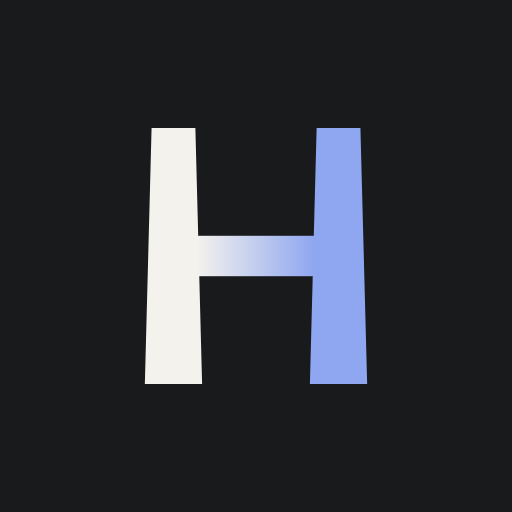
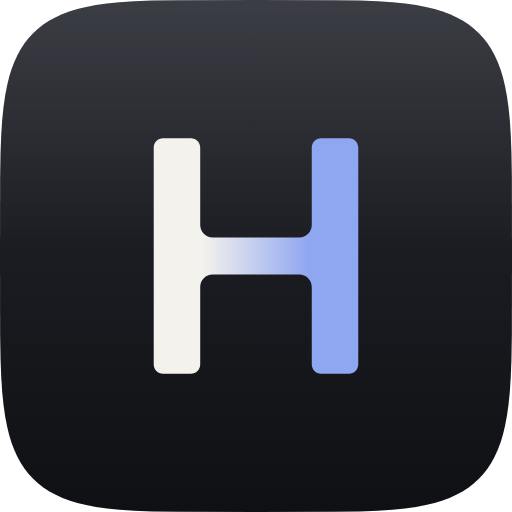
Polished Hantari mark: one continuous shape, rounded joints, single gradient
iOS-style squircle app icon for favicon, Apple touch icon and showcase PWA.

Claude-Session: https://claude.ai/code/session_01GvLDDMAvBjyEh5HQysKRcM

diff --git a/src/components/Logo.tsx b/src/components/Logo.tsx
@@ -1,15 +1,17 @@
 /**
  * The Hantari mark: an H drawn as a bridge between two banks — business (left, ink) and
  * AI (right, blue) — joined by a span that carries one colour into the other.
- * Geometry lives on a 66 × 76 grid; the OG image and icon generators use the same numbers.
+ *
+ * One continuous shape on a 66 × 76 grid: straight pillars (crisp at every size), softly
+ * rounded outer corners and curved joints where the span meets the pillars, filled with a
+ * single gradient (no seams). The OG image and icon generators use the same path.
  *
  * tone: "duo" (ink → blue, for light backgrounds), "duo-dark" (cream → light blue, for dark
  * backgrounds) or "mono" (one colour, follows the text colour).
  */
 export const BRIDGE_VIEWBOX = "0 0 66 76";
-export const BRIDGE_LEFT = "M2 0H15L17 76H0Z";
-export const BRIDGE_RIGHT = "M51 0H64L66 76H49Z";
-export const BRIDGE_SPAN = { x: 15.5, y: 32, width: 35, height: 12 };
+export const BRIDGE_PATH =
+  "M3 0H12C13.657 0 15 1.343 15 3V28C15 30.21 16.79 32 19 32H47C49.21 32 51 30.21 51 28V3C51 1.343 52.343 0 54 0H63C64.657 0 66 1.343 66 3V73C66 74.657 64.657 76 63 76H54C52.343 76 51 74.657 51 73V48C51 45.79 49.21 44 47 44H19C16.79 44 15 45.79 15 48V73C15 74.657 13.657 76 12 76H3C1.343 76 0 74.657 0 73V3C0 1.343 1.343 0 3 0Z";
 
 const TONES = {
   duo: ["#191A1C", "#2E4FC4"],
@@ -37,14 +39,14 @@ export function HMark({
       aria-label={title}
     >
       <defs>
-        <linearGradient id={grad} gradientUnits="userSpaceOnUse" x1="15.5" y1="0" x2="50.5" y2="0">
+        <linearGradient id={grad} gradientUnits="userSpaceOnUse" x1="0" y1="0" x2="66" y2="0">
           <stop offset="0" stopColor={left} />
+          <stop offset="0.24" stopColor={left} />
+          <stop offset="0.76" stopColor={right} />
           <stop offset="1" stopColor={right} />
         </linearGradient>
       </defs>
-      <path d={BRIDGE_LEFT} fill={left} />
-      <path d={BRIDGE_RIGHT} fill={right} />
-      <rect {...BRIDGE_SPAN} fill={tone === "mono" ? left : `url(#${grad})`} />
+      <path d={BRIDGE_PATH} fill={tone === "mono" ? left : `url(#${grad})`} />
     </svg>
   );
 }

diff --git a/src/app/[locale]/opengraph-image.tsx b/src/app/[locale]/opengraph-image.tsx
@@ -29,9 +29,8 @@ const COPY = {
 
 // The bridge H (see BRIDGE_* in components/Logo.tsx), as an SVG string on its 66 × 76 grid
 const bridge = (left: string, right: string, id: string, transform = "") =>
-  `<g transform="${transform}"><defs><linearGradient id="${id}" gradientUnits="userSpaceOnUse" x1="15.5" y1="0" x2="50.5" y2="0"><stop offset="0" stop-color="${left}"/><stop offset="1" stop-color="${right}"/></linearGradient></defs>` +
-  `<path d="M2 0H15L17 76H0Z" fill="${left}"/><path d="M51 0H64L66 76H49Z" fill="${right}"/>` +
-  `<rect x="15.5" y="32" width="35" height="12" fill="url(#${id})"/></g>`;
+  `<g transform="${transform}"><defs><linearGradient id="${id}" gradientUnits="userSpaceOnUse" x1="0" y1="0" x2="66" y2="0"><stop offset="0" stop-color="${left}"/><stop offset="0.24" stop-color="${left}"/><stop offset="0.76" stop-color="${right}"/><stop offset="1" stop-color="${right}"/></linearGradient></defs>` +
+  `<path d="M3 0H12C13.657 0 15 1.343 15 3V28C15 30.21 16.79 32 19 32H47C49.21 32 51 30.21 51 28V3C51 1.343 52.343 0 54 0H63C64.657 0 66 1.343 66 3V73C66 74.657 64.657 76 63 76H54C52.343 76 51 74.657 51 73V48C51 45.79 49.21 44 47 44H19C16.79 44 15 45.79 15 48V73C15 74.657 13.657 76 12 76H3C1.343 76 0 74.657 0 73V3C0 1.343 1.343 0 3 0Z" fill="url(#${id})"/></g>`;
 
 // The dusk scene from the home page, with the H standing in the sky.
 const DUSK = `<svg xmlns="http://www.w3.org/2000/svg" viewBox="0 0 420 546" width="420" height="546">
